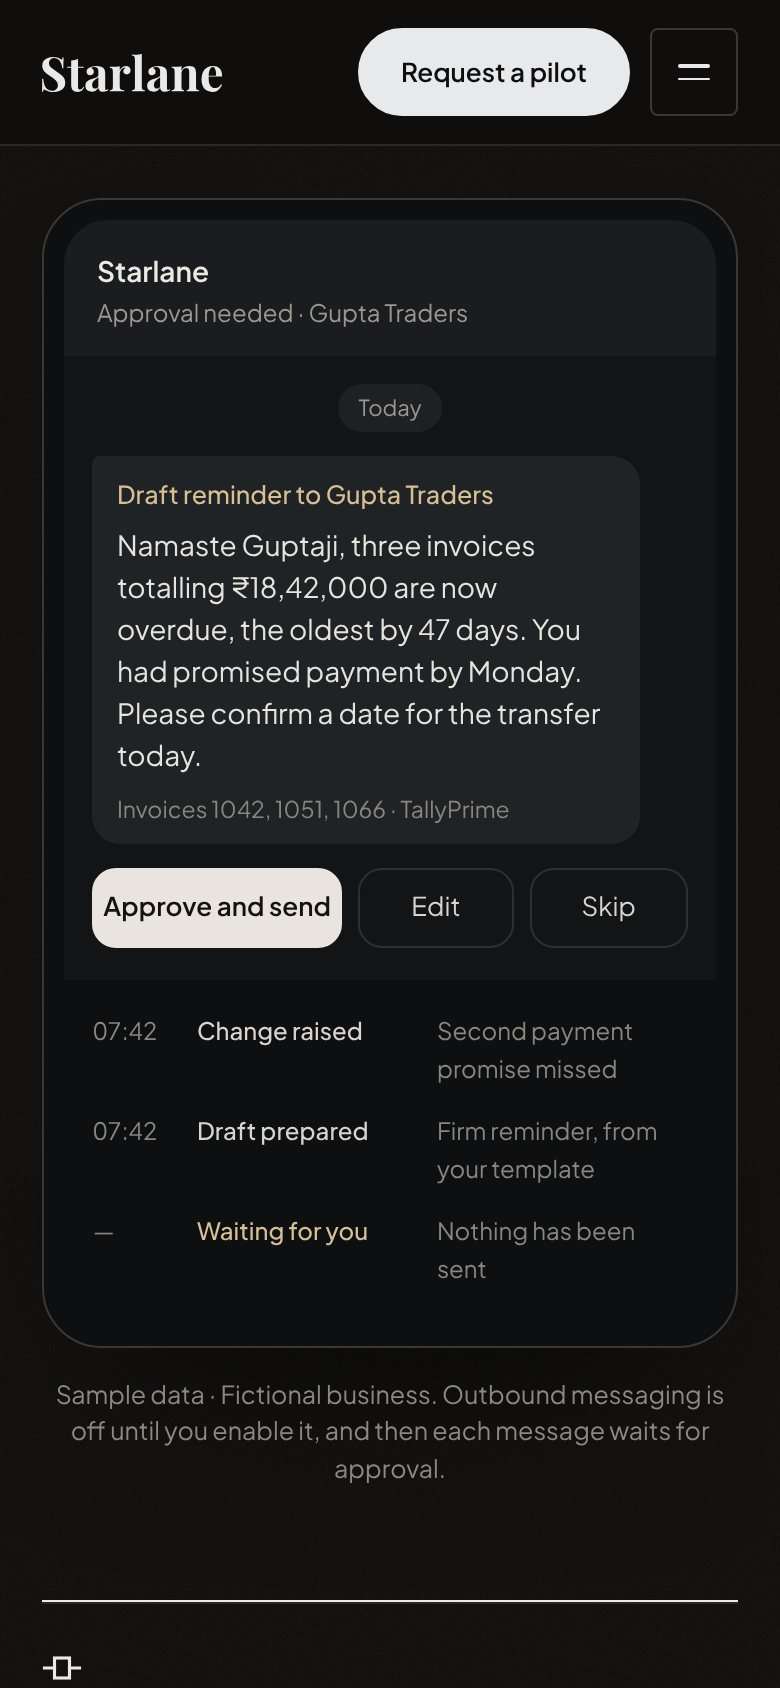
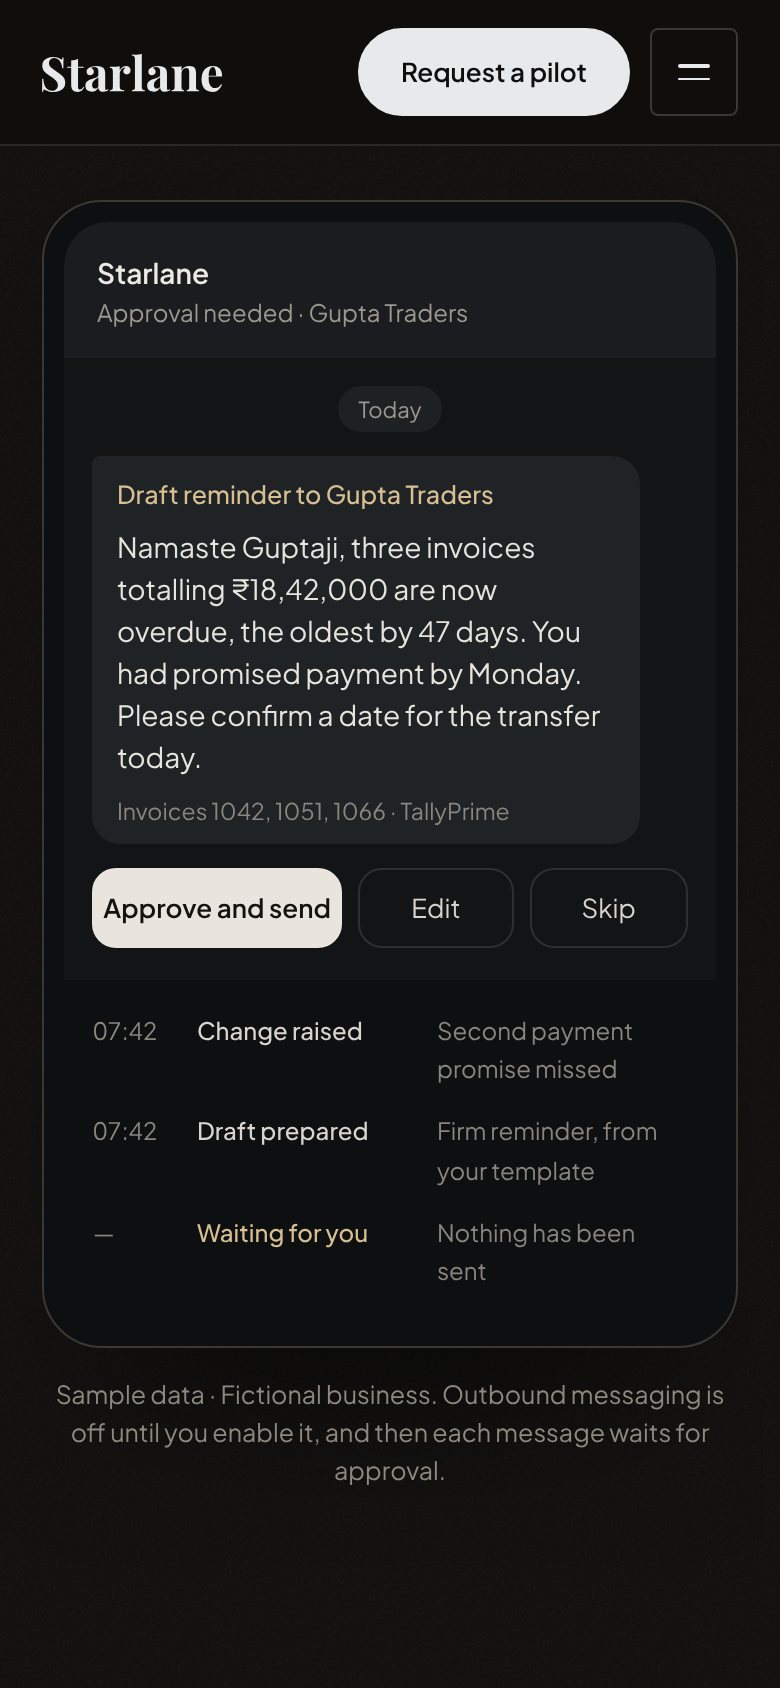
Homepage: minimal, enterprise layout
Centred serif promise, one large product frame, three rules, the morning
view, the approval and questions. The problem diagram, evidence stack,
verification record, does/never list and pilot steps move off the
homepage (they remain on platform, security and pricing). More space
and larger type throughout.

Claude-Session: https://claude.ai/code/session_01TRYDuk83zkomBk6o8zRnck

diff --git a/app/page.tsx b/app/page.tsx
@@ -5,52 +5,23 @@ import type { Metadata, Viewport } from "next";
 import Link from "next/link";
 import { SITE, SITE_URL, pageMetadata } from "@/lib/site";
 import { JsonLd } from "@/components/marketing/JsonLd";
-import { SiteShell, Index, CloseBand } from "@/components/marketing/site/Site";
+import { SiteShell, CloseBand } from "@/components/marketing/site/Site";
 import { HeroBrief } from "@/components/marketing/site/HeroBrief";
 import { ApprovalPhone } from "@/components/marketing/site/ApprovalPhone";
-import { SystemsPlate, EvidenceStack } from "@/components/marketing/home/Plates";
-import { WatchRoom, VerificationRecord } from "@/components/marketing/home/Rooms";
-import { Glyph } from "@/components/marketing/home/Glyph";
-import { InView } from "@/components/marketing/home/InView";
+import { WatchRoom } from "@/components/marketing/home/Rooms";
 
-// Starlane, public homepage. The short version of one story on one fictional
-// company (Narmada Pipes & Fittings): what changed, why, what to do, and what
-// happened next. Each frame hands off to the page that covers it in depth.
-// Every product figure is illustrative and labelled so. Every capability shown
-// exists in the product; integration statuses come from the registry.
-
-const CAPTION = "Sample data · Fictional business · Narmada Pipes & Fittings";
+// Starlane, public homepage. Deliberately short: the promise, the product,
+// three rules, the morning view, the approval, and questions. The detail lives
+// on the platform, security and pricing pages. Product figures are sample data
+// on a fictional business and labelled so.
 
 // Live connections by name (registry status "live"); public feeds are opt-in per pilot.
-const LIVE = ["TallyPrime", "Excel", "CSV", "Google Sheets exports", "Bank statements", "Accounting exports", "Stock exports"];
+const LIVE = ["TallyPrime", "Excel", "CSV", "Google Sheets", "Bank statements", "Stock exports"];
 
-const CONTROLS = [
-  { g: "gate", k: "Approval queue", b: "Proposed actions wait for a person. Higher-risk types always require approval." },
-  { g: "once", k: "Runs at most once", b: "Each approved action is claimed once. The text you approve is the text sent." },
-  { g: "audit", k: "Audit trail", b: "Who decided, when, and the values before and after, in an append-only log." },
-  { g: "signal", k: "Messaging off by default", b: "Nothing reaches a customer or supplier until outbound messaging is enabled." },
-];
-
-const DOES = [
-  "Reads TallyPrime, bank statements and stock, read-only",
-  "Compares today with yesterday and raises only material changes",
-  "Shows the records behind every figure",
-  "Drafts reminders and estimates what they may bring in, as a range",
-  "Can check the books afterwards to see what actually happened",
-];
-const NEVER = [
-  "Create, edit or delete entries in your books",
-  "Mark a payment as received or change an amount",
-  "Message a customer or supplier without your approval",
-  "Lend money or act as a collection agency",
-  "Let a language model produce your numbers",
-];
-
-const PILOT = [
-  ["Apply", "Three short steps: your business, the systems you run, and what you want to change."],
-  ["Connect read-only", "TallyPrime through a local bridge on one Windows machine; bank statements and stock as exports. Nothing in your systems changes."],
-  ["Mornings on your own data", "Real changes, with the evidence, and decisions that wait for you."],
-  ["Decide", "Continue or stop. Pricing is agreed with you once you have seen what Starlane finds."],
+const RULES = [
+  ["Read-only.", "Starlane reads TallyPrime, bank statements and stock. Nothing in your books is created, changed or deleted."],
+  ["Sourced.", "Every figure is marked fact, calculation, assumption or estimate, with the record it came from."],
+  ["Approved.", "Nothing reaches a customer until you approve the exact text, and it is sent once."],
 ];
 
 const FAQ: Array<[string, string]> = [
@@ -112,192 +83,65 @@ export default function LandingPage() {
   return (
     <SiteShell>
       <JsonLd data={[STRUCTURED, { "@context": "https://schema.org", "@type": "FAQPage", mainEntity: FAQ.map(([q, a]) => ({ "@type": "Question", name: q, acceptedAnswer: { "@type": "Answer", text: a } })) }]} />
-      {/* 01 · Hero */}
-      <header className="f f-dark hx hx-c hx-cine">
-        <div className="f-wrap hx-split">
-          <div className="hx-copy">
-            <Link href="/pricing" className="hx-kicker">Private pilots now open<span aria-hidden>→</span></Link>
-            <h1 className="f-display hx-h">
-              <span>Who owes you.</span> <span>Who broke a promise.</span> <span>Who to call <em>today.</em></span>
-            </h1>
-            <p className="f-lead hx-lead">
-              Starlane reads your TallyPrime, bank statements and stock, read-only. Each morning it shows the few changes
-              worth your attention, with the evidence behind every figure.<span className="hx-lead-x"> Nothing reaches a customer until you approve it.</span>
-            </p>
-            <div className="f-actions hx-actions">
-              <Link href="/access" className="sl-btn sl-btn-solid sl-btn-lg">Request a pilot</Link>
-              <Link href="#brief" className="f-link">See a sample brief<span aria-hidden>→</span></Link>
-            </div>
-            <ul className="hx-micro">
-              <li>Read-only access</li>
-              <li>Nothing sent without your approval</li>
-              <li>Every figure sourced</li>
-            </ul>
+      <header className="f f-dark ex-hero">
+        <div className="f-wrap">
+          <h1 className="ex-h">
+            <span>Who owes you.</span> <span>Who broke a promise.</span> <span>Who to call <em>today.</em></span>
+          </h1>
+          <p className="ex-lead">
+            A morning brief from your TallyPrime, bank statements and stock. Every figure sourced. Nothing sent without your approval.
+          </p>
+          <div className="ex-actions">
+            <Link href="/access" className="sl-btn sl-btn-solid sl-btn-lg">Request a pilot</Link>
+            <Link href="#brief" className="f-link">See a sample brief<span aria-hidden>→</span></Link>
           </div>
-          <div className="hx-shot"><HeroBrief /></div>
+          <div className="ex-shot"><HeroBrief /></div>
+          <div className="ex-works">
+            <h2 className="ex-works-k">Works with what you already run</h2>
+            <ul>{LIVE.map((n) => <li key={n}>{n}</li>)}</ul>
+          </div>
         </div>
       </header>
 
-      {/* Live sources, by name */}
-      <section className="f-light rb" aria-labelledby="rb-h">
-        <div className="f-wrap rb-in">
-          <h2 id="rb-h" className="rb-k">Works with what you already run</h2>
-          <ul className="rb-list">
-            {LIVE.map((n) => <li key={n}>{n}</li>)}
-          </ul>
-          <Link href="/integrations" className="f-link rb-more">All integrations<span aria-hidden>→</span></Link>
-        </div>
-      </section>
-
-      {/* 02 · Fragmented systems */}
-      <section id="how" className="f f-light" aria-labelledby="f2-h">
-        <div className="f-wrap f-grid">
-          <div className="f-side">
-            <Index n="01" k="The problem" />
-            <h2 id="f2-h" className="f-h2">Your business already knows what happened.</h2>
-            <p className="f-lede">The questions that matter sit between your systems.</p>
-            <p className="f-body">Accounting knows the balance. Your team knows the promise. The bank knows whether the money arrived. Nobody connects them until it is late.</p>
-            <p className="f-note"><span className="f-key f-key-solid" />Live today <span className="f-key f-key-dash" />Planned or custom</p>
-          </div>
-          <div className="f-main"><SystemsPlate /></div>
-        </div>
-      </section>
-
-      {/* 03 · Know what changed */}
-      <section id="brief" className="f f-dark" aria-labelledby="f4-h">
+      <section className="f f-light ex-rules" aria-labelledby="ex-rules-h">
         <div className="f-wrap">
-          <div className="f-head f-head-split">
-            <div>
-              <Index n="02" k="Know what changed" />
-              <h2 id="f4-h" className="f-h2">07:42. Four things changed.</h2>
-            </div>
-            <div>
-              <p className="f-body">Only material changes are raised, each with its exposure and the records behind it. The rest stays quiet, so the four that matter are the four you see.</p>
-              <p className="f-after"><Link href="/platform#watch" className="f-link">How Watch works<span aria-hidden>→</span></Link></p>
-            </div>
-          </div>
+          <h2 id="ex-rules-h" className="ex-h2">Three rules it never breaks.</h2>
+          <ol className="ex-tri">
+            {RULES.map(([k, v]) => <li key={k}><h3>{k}</h3><p>{v}</p></li>)}
+          </ol>
+          <p className="ex-more"><Link href="/security" className="f-link">Security and control<span aria-hidden>→</span></Link></p>
+        </div>
+      </section>
+
+      <section id="brief" className="f f-dark ex-sec" aria-labelledby="ex-watch-h">
+        <div className="f-wrap ex-head">
+          <h2 id="ex-watch-h" className="ex-h2">Four things changed overnight. You see those four.</h2>
+          <p className="ex-sub">Only material changes are raised, each with its exposure and the records behind it. Everything else stays quiet.</p>
         </div>
         <div className="f-bleed"><WatchRoom /></div>
       </section>
 
-      {/* 04 · Evidence */}
-      <section className="f f-light" aria-labelledby="f5-h">
-        <div className="f-wrap f-grid">
-          <div className="f-side">
-            <Index n="03" k="Evidence" />
-            <h2 id="f5-h" className="f-h2">Every number shows its working.</h2>
-            <p className="f-lede">Fact, calculation, assumption or estimate, and always the record it came from.</p>
-            <p className="f-body">Open any decision and its reasoning comes apart into layers you can check, from the invoices it started with to the check that will follow it. No language model produces these numbers.</p>
-            <dl className="f-tags">
-              <div><dt><i className="tag tag-fact">Fact</i></dt><dd>Read from a system</dd></div>
-              <div><dt><i className="tag tag-calc">Calculated</i></dt><dd>Derived from facts</dd></div>
-              <div><dt><i className="tag tag-asm">Assumption</i></dt><dd>Stated, and yours to change</dd></div>
-              <div><dt><i className="tag tag-est">Estimate</i></dt><dd>A simulated range</dd></div>
-            </dl>
+      <section className="f f-dark ex-sec ex-approve" aria-labelledby="ex-ap-h">
+        <div className="f-wrap ex-split">
+          <div>
+            <h2 id="ex-ap-h" className="ex-h2">You approve. Then it sends.</h2>
+            <p className="ex-sub">Starlane drafts the reminder in your words and waits. Approve, edit or skip it from your phone. The text you approve is the text that goes, once, and every step is logged.</p>
+            <p className="ex-more"><Link href="/platform" className="f-link">See the product<span aria-hidden>→</span></Link></p>
           </div>
-          <div className="f-main"><EvidenceStack /></div>
+          <ApprovalPhone />
         </div>
       </section>
 
-      {/* 05 · Action, then verification */}
-      <section className="f f-slab f-verify" aria-labelledby="f7-h">
-        <div className="f-wrap">
-          <div className="f-head f-head-split">
-            <div>
-              <Index n="04" k="Verify" />
-              <h2 id="f7-h" className="f-h2">It checks what happened next.</h2>
-            </div>
-            <div>
-              <p className="f-lede">Most software stops at the recommendation. Starlane watches the books afterwards.</p>
-              <p className="f-after"><Link href="/platform#verify" className="f-link">From decision to outcome<span aria-hidden>→</span></Link></p>
-            </div>
-          </div>
-          <VerificationRecord />
-          <p className="f-cap">{CAPTION} · Outbound messaging and outcome checks are off by default.</p>
-        </div>
-      </section>
-
-      {/* 06 · Approval */}
-      <section className="f f-dark f-room f-control" aria-labelledby="f9-h">
-        <div className="f-wrap f-grid">
-          <div className="f-side">
-            <Index n="05" k="Approval" />
-            <h2 id="f9-h" className="f-h2">You approve. Then it sends.</h2>
-            <p className="f-body">Starlane drafts the reminder in your words and waits. Approve it, change it or skip it from your phone. The text you approve is the text that goes, once, and every step is logged.</p>
-            <p className="f-after"><Link href="/security" className="f-link">Security and control<span aria-hidden>→</span></Link></p>
-          </div>
-          <div className="f-main"><ApprovalPhone /></div>
-        </div>
-        <div className="f-wrap">
-          <InView as="ul" className="c9 c9-row">
-            {CONTROLS.map((c, i) => (
-              <li key={c.k} style={{ "--n": i } as React.CSSProperties}><Glyph name={c.g} size={20} /><h3>{c.k}</h3><p>{c.b}</p></li>
+      <section id="faq" className="f f-light ex-faq" aria-labelledby="fq-h">
+        <div className="f-wrap ex-split">
+          <h2 id="fq-h" className="ex-h2">Questions owners ask.</h2>
+          <div className="fq-list">
+            {FAQ.map(([q, a]) => (
+              <details key={q}>
+                <summary>{q}</summary>
+                <p>{a}</p>
+              </details>
             ))}
-          </InView>
-        </div>
-      </section>
-
-      {/* 07 · Does and does not */}
-      <section className="f f-light dn" aria-labelledby="dn-h">
-        <div className="f-wrap">
-          <div className="f-head f-head-split">
-            <div>
-              <Index n="06" k="Plainly" />
-              <h2 id="dn-h" className="f-h2">What Starlane does, and what it never does.</h2>
-            </div>
-            <p className="f-body">Your books stay yours. Starlane reads them, and it is blocked from changing them.</p>
-          </div>
-          <div className="dn-cols">
-            <div className="dn-col">
-              <h3>Does</h3>
-              <ul>{DOES.map((d) => <li key={d}>{d}</li>)}</ul>
-            </div>
-            <div className="dn-col dn-not">
-              <h3>Never does</h3>
-              <ul>{NEVER.map((d) => <li key={d}>{d}</li>)}</ul>
-            </div>
-          </div>
-        </div>
-      </section>
-
-      {/* 08 · Pilot */}
-      <section className="f f-dark pl" aria-labelledby="pl-h">
-        <div className="f-wrap f-grid">
-          <div className="f-side">
-            <Index n="07" k="Private pilot" />
-            <h2 id="pl-h" className="f-h2">Start on your own books.</h2>
-            <p className="f-body">Starlane is available through private pilots with a small number of businesses. You see what it finds in your own data before you decide anything, and we agree pricing with you afterwards.</p>
-            <div className="f-actions pl-actions">
-              <Link href="/access" className="sl-btn sl-btn-solid sl-btn-lg">Request a pilot</Link>
-              <Link href="/pricing" className="f-link">How a pilot runs<span aria-hidden>→</span></Link>
-            </div>
-          </div>
-          <div className="f-main">
-            <ol className="pl-steps">
-              {PILOT.map(([k, v], i) => (
-                <li key={k}><span className="num">{String(i + 1).padStart(2, "0")}</span><h3>{k}</h3><p>{v}</p></li>
-              ))}
-            </ol>
-          </div>
-        </div>
-      </section>
-
-      {/* 09 · Questions */}
-      <section id="faq" className="f f-light fq" aria-labelledby="fq-h">
-        <div className="f-wrap f-grid">
-          <div className="f-side">
-            <Index n="08" k="Questions" />
-            <h2 id="fq-h" className="f-h2">Asked by owners, answered plainly.</h2>
-          </div>
-          <div className="f-main">
-            <div className="fq-list">
-              {FAQ.map(([q, a]) => (
-                <details key={q}>
-                  <summary>{q}</summary>
-                  <p>{a}</p>
-                </details>
-              ))}
-            </div>
           </div>
         </div>
       </section>

diff --git a/app/site.css b/app/site.css
@@ -570,3 +570,51 @@ html:has(.sl.sl-start) .cookie-card { backdrop-filter: none; -webkit-backdrop-fi
 .sl-start .sp2-k, .sl-start .sp2-via { font-family: var(--sl-sans); font-size: 11px; letter-spacing: 0; }
 .sl-start .sp2-bar-t { font-family: var(--sl-sans); font-size: 13px; letter-spacing: 0; }
 html:has(.sl.sl-start) .sl-foot-sign { display: none; }
+
+/* ── Homepage, minimal ─────────────────────────────────────────────
+ * One idea per screen: a centred promise, one large product frame, three
+ * rules, the morning view, the approval, questions. Generous space, large
+ * serif type, hairlines only where they separate.
+ */
+.sl-start .f { padding: clamp(120px, 13vw, 208px) 0; }
+.sl-start .ex-hero { padding: clamp(96px, 11vw, 168px) 0 clamp(96px, 10vw, 152px); text-align: center; background: #0F0E0D; }
+.sl-start .ex-h { margin: 0 auto; max-width: 22ch; font-family: var(--serif); font-weight: 400; font-size: clamp(46px, 6.6vw, 104px); line-height: 1; letter-spacing: -0.032em; color: #F4F1EC; text-wrap: balance; font-variation-settings: "opsz" 72; }
+.sl-start .ex-h > span { display: block; }
+.sl-start .ex-h > span:nth-child(2) { color: #8E897F; }
+.sl-start .ex-h em { font-style: italic; color: #E2C9A0; }
+.sl-start .ex-lead { margin: clamp(28px, 2.6vw, 40px) auto 0; max-width: 34rem; font-size: clamp(16px, 1.25vw, 19px); line-height: 1.6; color: #ABA59C; }
+.sl-start .ex-actions { display: flex; justify-content: center; align-items: center; flex-wrap: wrap; gap: 14px 32px; margin-top: clamp(32px, 3vw, 44px); }
+.sl-start .ex-shot { max-width: 940px; margin: clamp(80px, 9vw, 136px) auto 0; text-align: left; }
+.sl-start .ex-shot .hb-panel { box-shadow: 0 1px 0 rgb(255 255 255 / .04) inset, 0 60px 120px -60px rgb(0 0 0 / .9); }
+.sl-start .ex-shot .hb-cap { justify-content: center; }
+.sl-start .ex-works { margin-top: clamp(80px, 8vw, 120px); padding-top: 40px; border-top: 1px solid #2A2825; }
+.sl-start .ex-works-k { margin: 0; font-family: var(--sl-sans); font-size: 13px; font-weight: 500; color: #8E897F; }
+.sl-start .ex-works ul { display: flex; flex-wrap: wrap; justify-content: center; gap: 12px 44px; margin: 22px 0 0; padding: 0; list-style: none; }
+.sl-start .ex-works li { font-family: var(--serif); font-size: clamp(18px, 1.6vw, 22px); color: #CFC8BC; }
+
+.sl-start .ex-h2 { margin: 0; max-width: 18ch; font-family: var(--serif); font-weight: 400; font-size: clamp(38px, 4.6vw, 72px); line-height: 1.02; letter-spacing: -0.026em; color: var(--fg); text-wrap: balance; font-variation-settings: "opsz" 72; }
+.sl-start .ex-sub { margin: 28px 0 0; max-width: 32rem; font-size: clamp(16px, 1.2vw, 18px); line-height: 1.65; color: var(--fg2); }
+.sl-start .ex-more { margin: 36px 0 0; }
+.sl-start .ex-head { margin-bottom: clamp(64px, 7vw, 104px); }
+
+.sl-start .ex-tri { display: grid; grid-template-columns: repeat(3, minmax(0, 1fr)); gap: 0 clamp(32px, 4vw, 64px); margin: clamp(72px, 8vw, 120px) 0 0; padding: 0; list-style: none; }
+.sl-start .ex-tri li { padding-top: 32px; border-top: 1px solid var(--line2); }
+.sl-start .ex-tri h3 { margin: 0; font-family: var(--serif); font-weight: 400; font-size: clamp(30px, 3vw, 46px); line-height: 1.05; letter-spacing: -0.02em; color: var(--fg); }
+.sl-start .ex-tri p { margin: 20px 0 0; max-width: 22rem; font-size: 16px; line-height: 1.65; color: var(--fg2); }
+
+.sl-start .ex-split { display: grid; grid-template-columns: minmax(0, 5fr) minmax(0, 6fr); gap: clamp(48px, 7vw, 120px); align-items: center; }
+.sl-start .ex-approve { border-top: 1px solid #2A2825; }
+.sl-start .ex-faq .ex-split { align-items: start; }
+
+@media (max-width: 900px) {
+  .sl-start .ex-tri { grid-template-columns: 1fr; gap: 48px; }
+  .sl-start .ex-split { grid-template-columns: 1fr; }
+}
+@media (max-width: 760px) {
+  .sl-start .ex-hero { text-align: left; }
+  .sl-start .ex-h, .sl-start .ex-lead { margin-left: 0; }
+  .sl-start .ex-actions { justify-content: flex-start; }
+  .sl-start .ex-works ul { justify-content: flex-start; gap: 10px 28px; }
+}
+.sl-start h1.ex-h { font-family: var(--serif) !important; font-weight: 400 !important; letter-spacing: -0.032em !important; }
+@media (max-width: 760px) { .sl-start h1.ex-h { font-size: clamp(40px, 11vw, 52px); line-height: 1.02; } }
